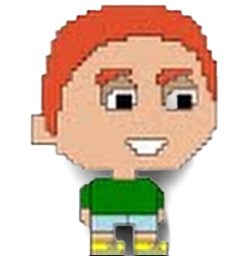
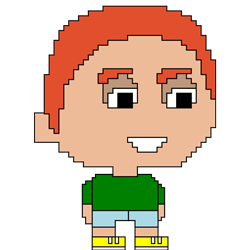
deploy: SchoolOfCode/bc16-final-projects-team-large-language-mavericks@89112dee95990497b22640774f624b147d4317d1

Changed region(s): [[0.1124, 0.0, 0.8996, 1.0], [0.3655, 0.252, 0.5622, 0.448]]

diff --git a/README.md b/README.md
@@ -1,70 +1,148 @@
-<a href="https://chat.vercel.ai/">
-  <img alt="Next.js 14 and App Router-ready AI chatbot." src="https://chat.vercel.ai/opengraph-image.png">
-  <h1 align="center">Next.js AI Chatbot</h1>
+<a href="https://soc-llm.vercel.app/"> 
+  <img style="width:100%; border-radius: 100px; margin-bottom: 20px" alt="School of Code CoachBot." src="./public/CoachBot_Banner.png">
+  <h1 align="center">School of Code CoachBot</h1>
 </a>
 
+
+
 <p align="center">
-  An open-source AI chatbot app template built with Next.js, the Vercel AI SDK, OpenAI, and Vercel KV.
+CoachBot: your guide, your mentor, your learning companion; a transformative experience that goes beyond your regular chatbots. With insights, resources, and quizzes, it propels learners forward. Say farewell to shallow interactions. Our CoachBot: the catalyst for learning excellence.
 </p>
 
 <p align="center">
-  <a href="#features"><strong>Features</strong></a> ·
-  <a href="#model-providers"><strong>Model Providers</strong></a> ·
-  <a href="#deploy-your-own"><strong>Deploy Your Own</strong></a> ·
-  <a href="#running-locally"><strong>Running locally</strong></a> ·
+  <a href="#links"><strong>Links</strong></a> ·
+  <a href="#gpt model version"><strong>GPT Model Version</strong></a> ·
+  <a href="#Creating a KV Database Instance"><strong>Creating a KV Database Instance</strong></a> ·
+  <a href="#Notion Database"><strong>Notion Database</strong></a> ·
+  <a href="#Running locally"><strong>Running locally</strong></a> ·
   <a href="#authors"><strong>Authors</strong></a>
 </p>
 <br/>
 
-## Features
+## Links
+- Live Demo : https://soc-llm.vercel.app/
+- GitHub Repository : https://github.com/SchoolOfCode/bc16-final-projects-team-large-language-mavericks
+- Project Presentation Video : https://www.youtube.com/watch?v=69QqHgv90Ss
+- Presentation Slides : https://coachbot.my.canva.site/coachbot
 
-- [Next.js](https://nextjs.org) App Router
-- React Server Components (RSCs), Suspense, and Server Actions
-- [Vercel AI SDK](https://sdk.vercel.ai/docs) for streaming chat UI
-- Support for OpenAI (default), Anthropic, Cohere, Hugging Face, or custom AI chat models and/or LangChain
-- [shadcn/ui](https://ui.shadcn.com)
-  - Styling with [Tailwind CSS](https://tailwindcss.com)
-  - [Radix UI](https://radix-ui.com) for headless component primitives
-  - Icons from [Phosphor Icons](https://phosphoricons.com)
-- Chat History, rate limiting, and session storage with [Vercel KV](https://vercel.com/storage/kv)
-- [NextAuth.js](https://github.com/nextauthjs/next-auth) for authentication
+---
 
-## Model Providers
+<img style="border-radius: 20px" src="./public/ProjectBrief.png" alt="ProjectBrief img"/>
+<img style="border-radius: 20px" src="./public/ResearchInsights.png" alt="ResearchInsights img"/>
+<img style="border-radius: 20px" src="./public/ProjectGoals.png" alt="ProjectGoals img"/>
+<img style="border-radius: 20px" src="./public/Manifesto.png" alt="Manifesto img"/>
+<img style="border-radius: 20px" src="./public/TechStack.png" alt="TechStack img"/>
 
-This template ships with OpenAI `gpt-3.5-turbo` as the default. However, thanks to the [Vercel AI SDK](https://sdk.vercel.ai/docs), you can switch LLM providers to [Anthropic](https://anthropic.com), [Cohere](https://cohere.com/), [Hugging Face](https://huggingface.co), or using [LangChain](https://js.langchain.com) with just a few lines of code.
 
-## Deploy Your Own
 
-You can deploy your own version of the Next.js AI Chatbot to Vercel with one click:
+#  GPT Model Version
 
-[![Deploy with Vercel](https://vercel.com/button)](https://vercel.com/new/clone?demo-title=Next.js+Chat&demo-description=A+full-featured%2C+hackable+Next.js+AI+chatbot+built+by+Vercel+Labs&demo-url=https%3A%2F%2Fchat.vercel.ai%2F&demo-image=%2F%2Fimages.ctfassets.net%2Fe5382hct74si%2F4aVPvWuTmBvzM5cEdRdqeW%2F4234f9baf160f68ffb385a43c3527645%2FCleanShot_2023-06-16_at_17.09.21.png&project-name=Next.js+Chat&repository-name=nextjs-chat&repository-url=https%3A%2F%2Fgithub.com%2Fvercel-labs%2Fai-chatbot&from=templates&skippable-integrations=1&env=OPENAI_API_KEY%2CAUTH_SECRET&envDescription=How+to+get+these+env+vars&envLink=https%3A%2F%2Fgithub.com%2Fvercel-labs%2Fai-chatbot%2Fblob%2Fmain%2F.env.example&teamCreateStatus=hidden&stores=[{"type":"kv"}])
+This project uses OpenAI `gpt-3.5-turbo` as the default but can be easily changed in the `./lib/chat/actions.tsx` file to a version of your choice.
+
+# Environment Variables 
+
+To run this project, you will need to add the following environment variables to your .env file
+
+## Open AI Set-up  
+To use OpenAI's API you must provide you own key
+You must first activate a Billing Account [here](https://platform.openai.com/account/billing/overview)  
+Then get your OpenAI API Key [here](https://platform.openai.com/account/api-keys)
+
+Now you can update your OpenAI API key in your .env file as shown in the .env.example to send/receive responses from OpenAI
 
 ## Creating a KV Database Instance
 
+To use the Login and chat history functionality the relevent information is stored in a KV database by default. 
+
 Follow the steps outlined in the [quick start guide](https://vercel.com/docs/storage/vercel-kv/quickstart#create-a-kv-database) provided by Vercel. This guide will assist you in creating and configuring your KV database instance on Vercel, enabling your application to interact with it.
 
-Remember to update your environment variables (`KV_URL`, `KV_REST_API_URL`, `KV_REST_API_TOKEN`, `KV_REST_API_READ_ONLY_TOKEN`) in the `.env` file with the appropriate credentials provided during the KV database setup.
+Remember to update your environment variables 
+
+``` yaml
+KV_URL=" "  
+KV_REST_API_URL=" " 
+KV_REST_API_TOKEN=" " 
+KV_REST_API_READ_ONLY_TOKEN=" " 
+``` 
+in the `.env` file with the appropriate credentials provided during the KV database setup.
+
+## Notion Database
+This project retrevies information from a Notion database to give the LLM more context and information about the School of Code
+
+For the Notion database to work without needing to change the system prompt you will need to use tags to identify the files in your database. 
+
+For the LLM to read your curriculum tag one file as `curriculum`. The link to this should be a Notion document for the LLM to read.  
+
+To set up your Notion databse you will need to update your .env to contain both :  
+
+```yaml
+NOTION_API_DB_ID=" " 
+NOTION_API_KEY=" "
+```
+
+These can both be set up [here](https://www.notion.so/help/guides/creating-a-database)
+
+To get an API key you need to create an intergration as described [here](https://developers.notion.com/docs/create-a-notion-integration)
+
+Example for reference below :
+
+<img style="border-radius: 20px" src="./public/Testing_Database.jpg" alt="Database img" height="500" />
 
 ## Running locally
 
-You will need to use the environment variables [defined in `.env.example`](.env.example) to run Next.js AI Chatbot. It's recommended you use [Vercel Environment Variables](https://vercel.com/docs/projects/environment-variables) for this, but a `.env` file is all that is necessary.
+You will need to use the environment variables defined in [`.env.example`](.env.example) to run the CoachBot. 
 
 > Note: You should not commit your `.env` file or it will expose secrets that will allow others to control access to your various OpenAI and authentication provider accounts.
 
-1. Install Vercel CLI: `npm i -g vercel`
-2. Link local instance with Vercel and GitHub accounts (creates `.vercel` directory): `vercel link`
-3. Download your environment variables: `vercel env pull`
+- GitHub Repository : https://github.com/SchoolOfCode/bc16-final-projects-team-large-language-mavericks
 
-```bash
-pnpm install
-pnpm dev
+Clone the project
+
+```yaml
+  git clone https://github.com/SchoolOfCode/bc16-final-projects-team-large-language-mavericks.git
+```
+
+Go to the project directory
+
+```yaml
+  cd bc16-final-projects-team-large-language-mavericks
+```
+
+Install dependencies
+
+```yaml
+  npm install
+```
+ or
+```yaml 
+  pnpm install
+```
+
+Start the server
+
+```yaml
+  npm run dev
+```
+or
+```yaml
+  pnpm dev
 ```
 
 Your app template should now be running on [localhost:3000](http://localhost:3000/).
 
-## Authors
+# Authors
 
-This library is created by [Vercel](https://vercel.com) and [Next.js](https://nextjs.org) team members, with contributions from:
+This School of Code project was built by the **Large Language Mavericks**:
+
+<img src="./public/Nadia.png" alt="Nadia img" height="75" />[@nashetty](https://github.com/nashetty)  
+<img src="./public/Mike.png" alt="Mike img" height="75" />[@mrw46](https://github.com/mrw46)  
+<img src="./public/Jacob.png" alt="Jacob img" height="75" />[@Ludwig-J](https://github.com/Ludwig-J)  
+<img src="./public/Yuliia.png" alt="Yuliia img" height="75" />[@yuliiastrizhalko](https://github.com/yuliiastrizhalko)
+
+
+## Acknowledgements
+
+The CoachBot was built on a Next.js boilerplate using this [library](https://vercel.com/templates/next.js/nextjs-ai-chatbot) which was created by [Vercel](https://vercel.com) and [Next.js](https://nextjs.org) team members, with contributions from:
 
 - Jared Palmer ([@jaredpalmer](https://twitter.com/jaredpalmer)) - [Vercel](https://vercel.com)
 - Shu Ding ([@shuding\_](https://twitter.com/shuding_)) - [Vercel](https://vercel.com)
